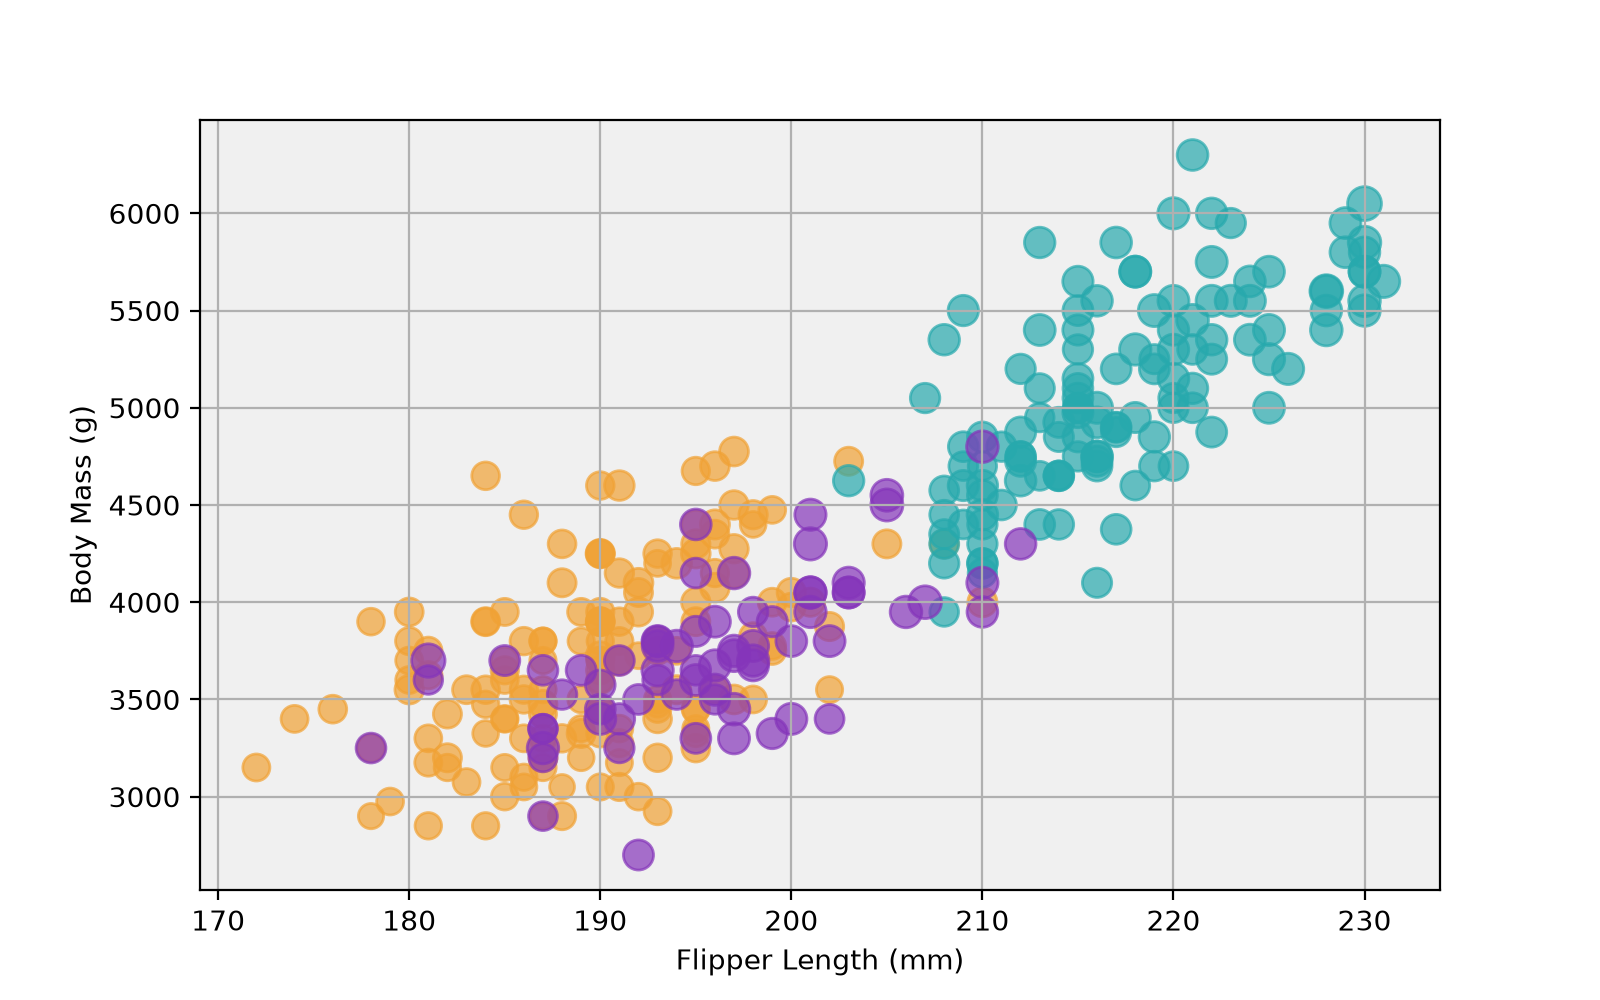
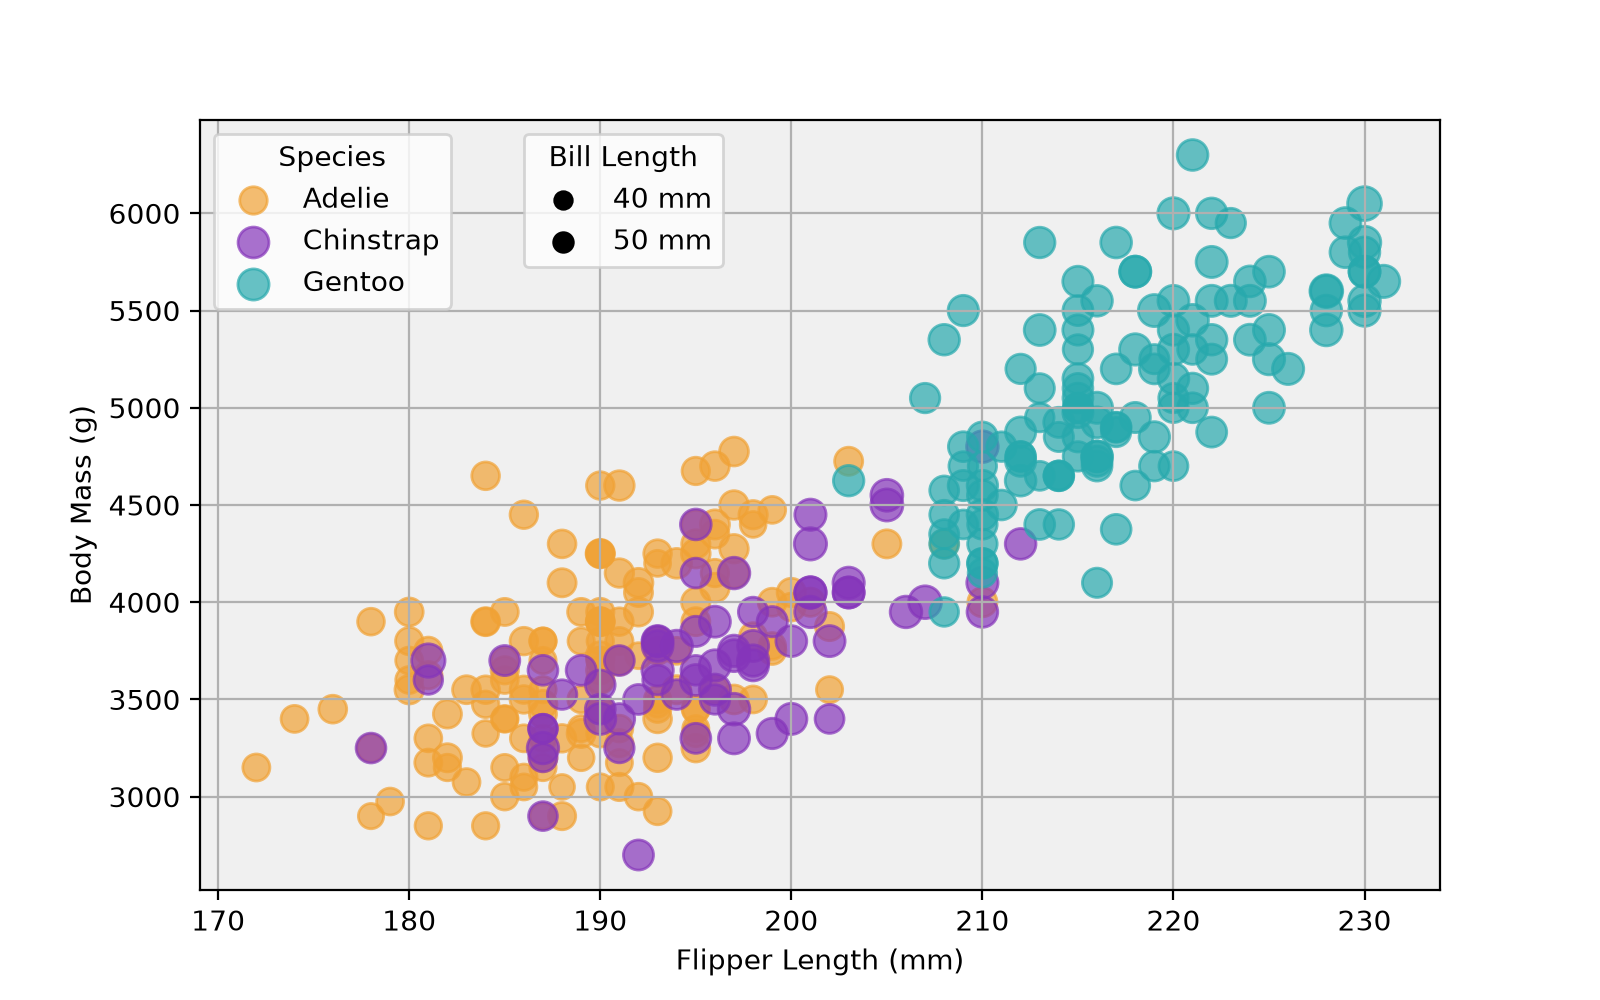
Python Done
I couldn't get the axis to be on the right but I at least got it done.

Help from:
My Dad
Griffon
VS Code Copilot

diff --git a/plot.py b/plot.py
@@ -4,18 +4,44 @@ import matplotlib.pyplot as plt
 
 data = pd.read_csv("penglings.csv")
 penguin_size = data.bill_length_mm
-data = data.drop(columns = ["" "island", "sex", "year", "bill_depth_mm"])
+data = data.drop(columns = ["island", "sex", "year", "bill_depth_mm"])
+
+fig, ax = plt.subplots(figsize=(8,5))
+
 colorMap={'Adelie': '#f0a235b3',
           'Chinstrap':'#8535bab3',
           'Gentoo': '#27a9adb3'}
-pColor = data["species"].map(colorMap)
-fig = plt.figure(figsize=(8,5))
-scatter = plt.scatter(x=data["flipper_length_mm"], y=data["body_mass_g"],s=(data["bill_length_mm"]*2.5),c=pColor)
-plt.xlabel("Flipper Length (mm)")
-plt.ylabel("Body Mass (g)")
-##handles,labels = scatter.legend_elements(prop=colors)
-##plt.legend(handles=handles, labels=labels, title= 'Species')
-axis = plt.gca()
-axis.set_facecolor('#f0f0f0')
-plt.grid(True)
+
+
+for species in colorMap:
+    subset = data[data.species == species]
+    ax.scatter(
+        x=subset["flipper_length_mm"],
+        y=subset["body_mass_g"],
+        s=(subset["bill_length_mm"]*2.5),
+        c=colorMap[species],
+        label=species
+    )
+
+
+ax.set_xlabel("Flipper Length (mm)")
+ax.set_ylabel("Body Mass (g)")
+ax.set_facecolor('#f0f0f0')
+ax.grid(True)
+##legend one
+species_legend = plt.legend(title="Species", loc="upper left")
+ax.add_artist(species_legend)
+##legend two
+size_values = [40, 50]
+size_handles = [
+    plt.scatter([],[],s=v, color="black")
+    for v in size_values]
+size_lables= [f"{v} mm" for v in size_values]
+ax.legend(
+    handles=size_handles,
+    labels=size_lables,
+    title="Bill Length",
+    loc="upper left",
+    bbox_to_anchor=(0.25, 1)
+)
 plt.savefig("pythonPlt.png",dpi=200)
